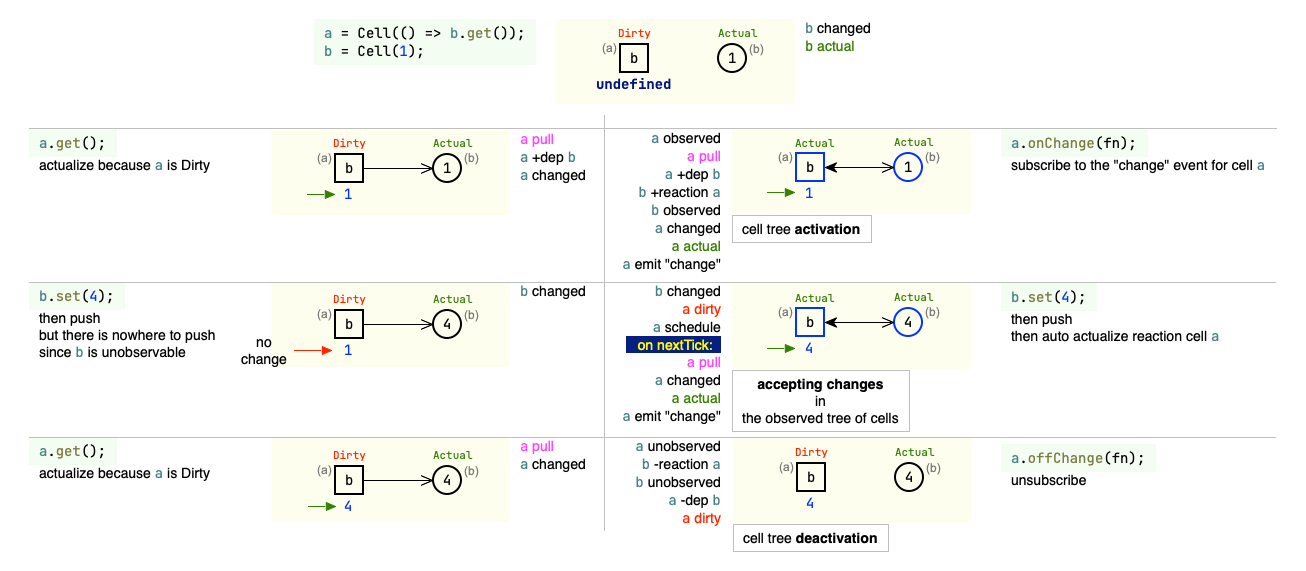
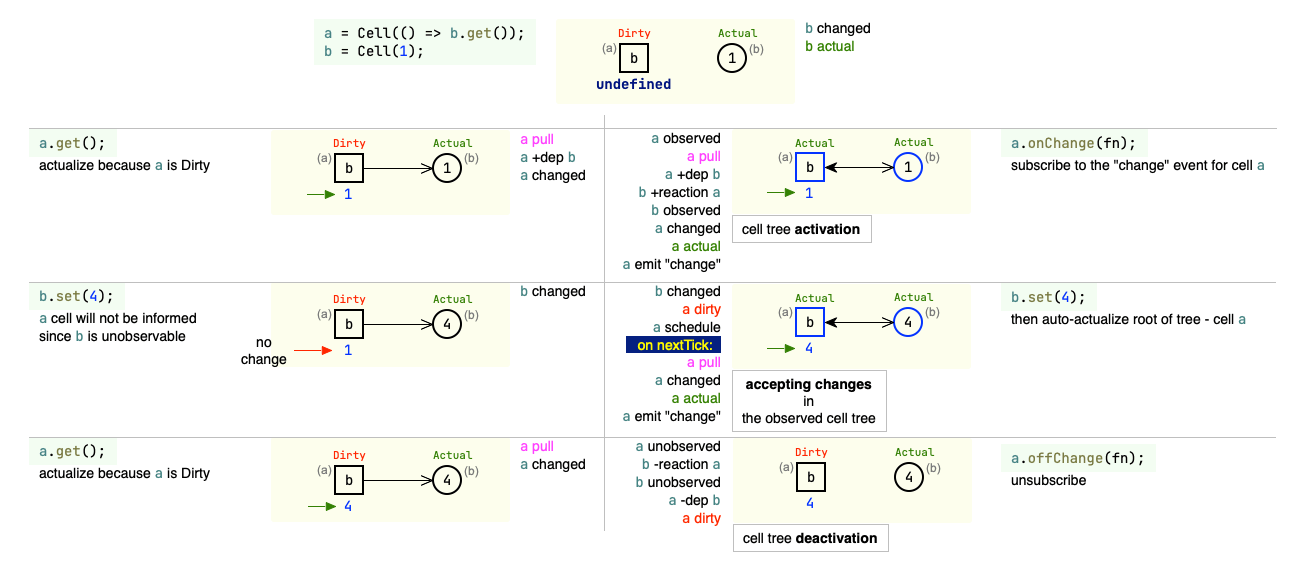
readme

Changed region(s): [[0.0306, 0.5359, 0.1838, 0.6252], [0.7657, 0.5359, 0.9495, 0.5954], [0.5513, 0.655, 0.7044, 0.7443]]

diff --git a/README.md b/README.md
@@ -65,8 +65,8 @@ output:
 if comment out `actualizeScheduledCells();` then the output will be like this:
 
 ```shell
-2
-8
+2 // autorun
+8 // result of auto-actualization of the observed cell tree
 ```
 
 this is because when multiple state changes happen:
